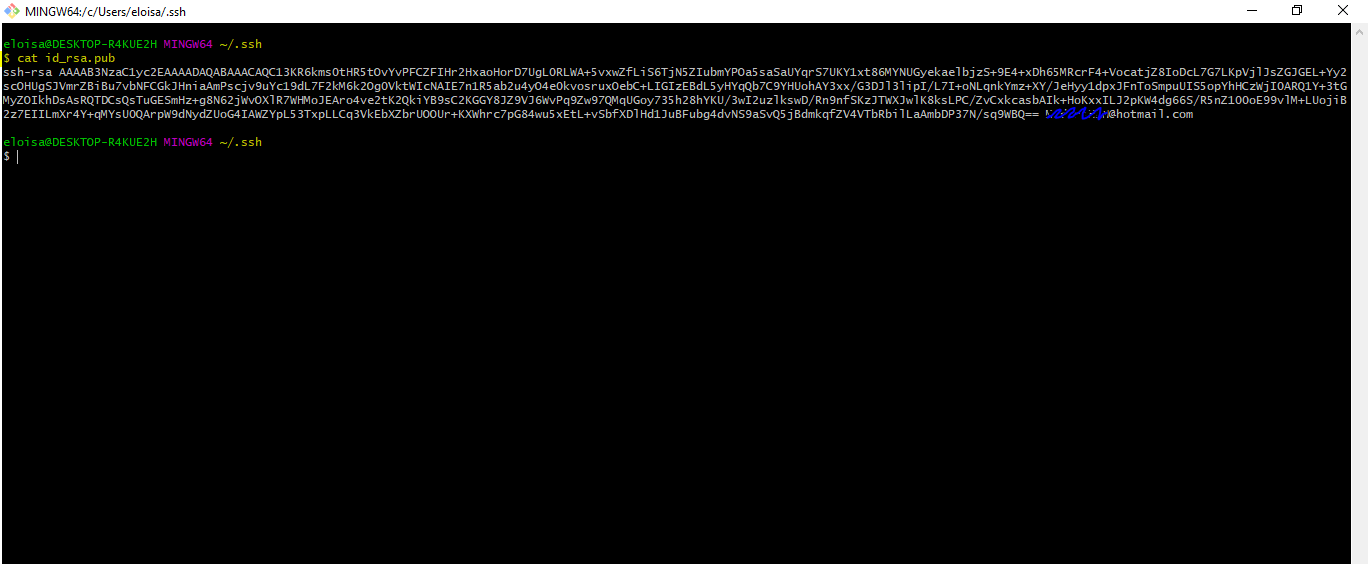
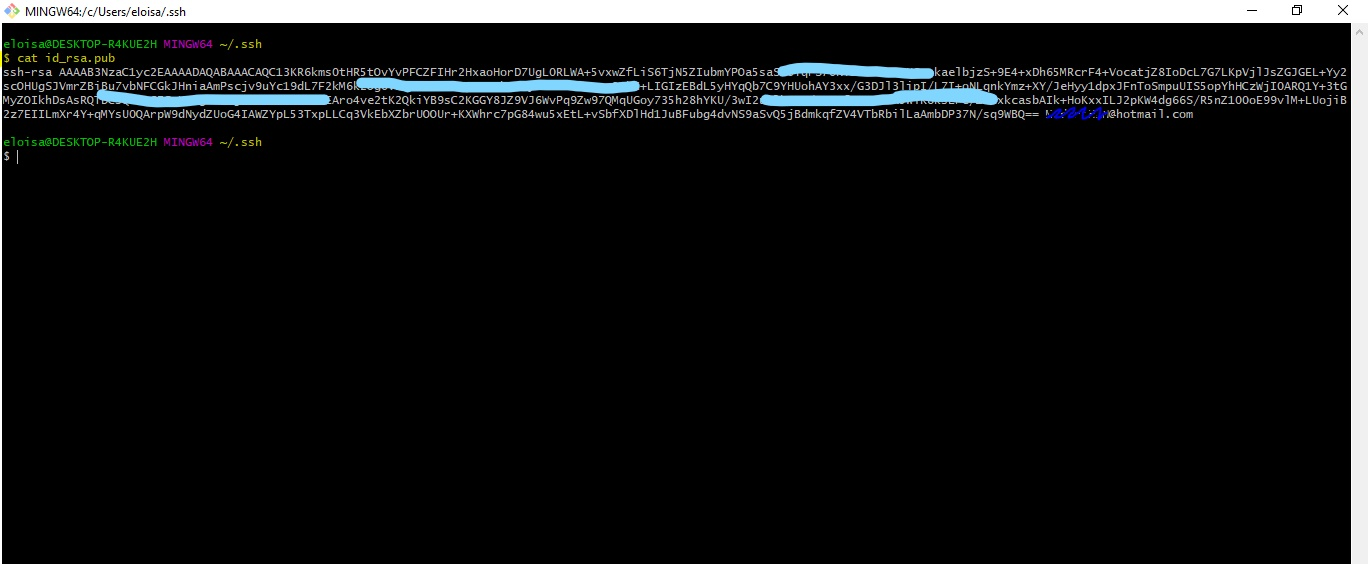
correccion para ocultar datos del rsa, ademas agregar los pasos para subir archivos a la plataforma de github

Changed region(s): [[0.0, 0.0603, 0.9825, 0.211], [0.0, 0.2411, 0.1842, 0.2713], [0.0, 0.0, 0.1535, 0.0301]]

diff --git a/README.md b/README.md
@@ -126,6 +126,74 @@ Por último se escribe lo siguiente; es muy importante que le escribas ".pub":
 
 * **Paso 4**: Nos aparecerá una ventana como la siguiente:
 
-![repositorio](./assets/repositorio-creado.png "Repositorio")
+![Repositorio](./assets/repositorio-creado.png "Repositorio")
 
 ## Cómo agregar archivos a un Repositorio desde el Git Bash
+
+* **Paso 1**: primero abrimos Git Bash y nos vamos a la ubicación de la carpeta con el proyecto que pretendes subir.
+
+![Proyecto1](./assets/proyecto.png "Ubicación del proyecto")
+
+![Proyecto2](./assets/proyecto-git-bash.png "Ubicación del proyecto en Gut Bash")
+
+* **Paso 2**: ahora se escribe el siguiente comando para inicializar:
+
+```python
+git init
+```
+
+Deberá aparecer la palabra "master".
+
+![Inicialización](./assets/init.png "Inicialización")
+
+* **Paso 3**: del paso 4 de lo anterior, en la imagen en mi caso aparece el comando sig:
+
+```python
+git remote add origin git@github.com:Madera971003/aprendiendo-a-usar-git.git
+```
+
+En tu caso deberás copiar el que te aparece a ti en la línea de comandos, de la siguiente forma dando un enter:
+
+![Remote](./assets/remote.png "Creación remota")
+
+* **Paso 4**: ahora ya podemos empezar a agregar nuestro pequeño proyecto. Usando uno de los comandos de abajo, agregamos los archivos.
+
+Este comando, nos agregará todos los archivos que tenemos en la carpeta donde estamos ubicado.
+
+```python
+git add -A
+```
+
+![Agregar todo](./assets/agregar-todo.png "Comando para agregar todos los archivos")
+
+Este comando, nos agrega un archivo en específico. Debes poner la extensión del archivo que estes agregando.
+
+```python
+git add name-file.extension
+```
+
+* **Paso 5**: algo que debes tomar en cuenta siempre, aunque sea un poco aburrido, tardado o quizá "innecesario", es poner comentarios siempre de que estes modificando, o que estes realizando alguna acción.
+
+Los comentarios se ponen de la siguiente manera con las comillas:
+
+```python
+git commit -m "Comentario  de la acción que estes haciendo"
+```
+
+![Comentarios](./assets/commit.png "Agregar comentarios a una acción")
+
+* **Paso 6**: para que todos los archivos queden visualizados en la cuenta de Git Hub, es necesario el siguiente comando:
+
+Este comando solo se usa una primera vez.
+
+```python
+git push -u origin master
+```
+
+![Git Push](./assets/git-push.png "Git Push")
+
+Para modificaciones a futuro, solo se usa:
+
+```python
+git push
+```
